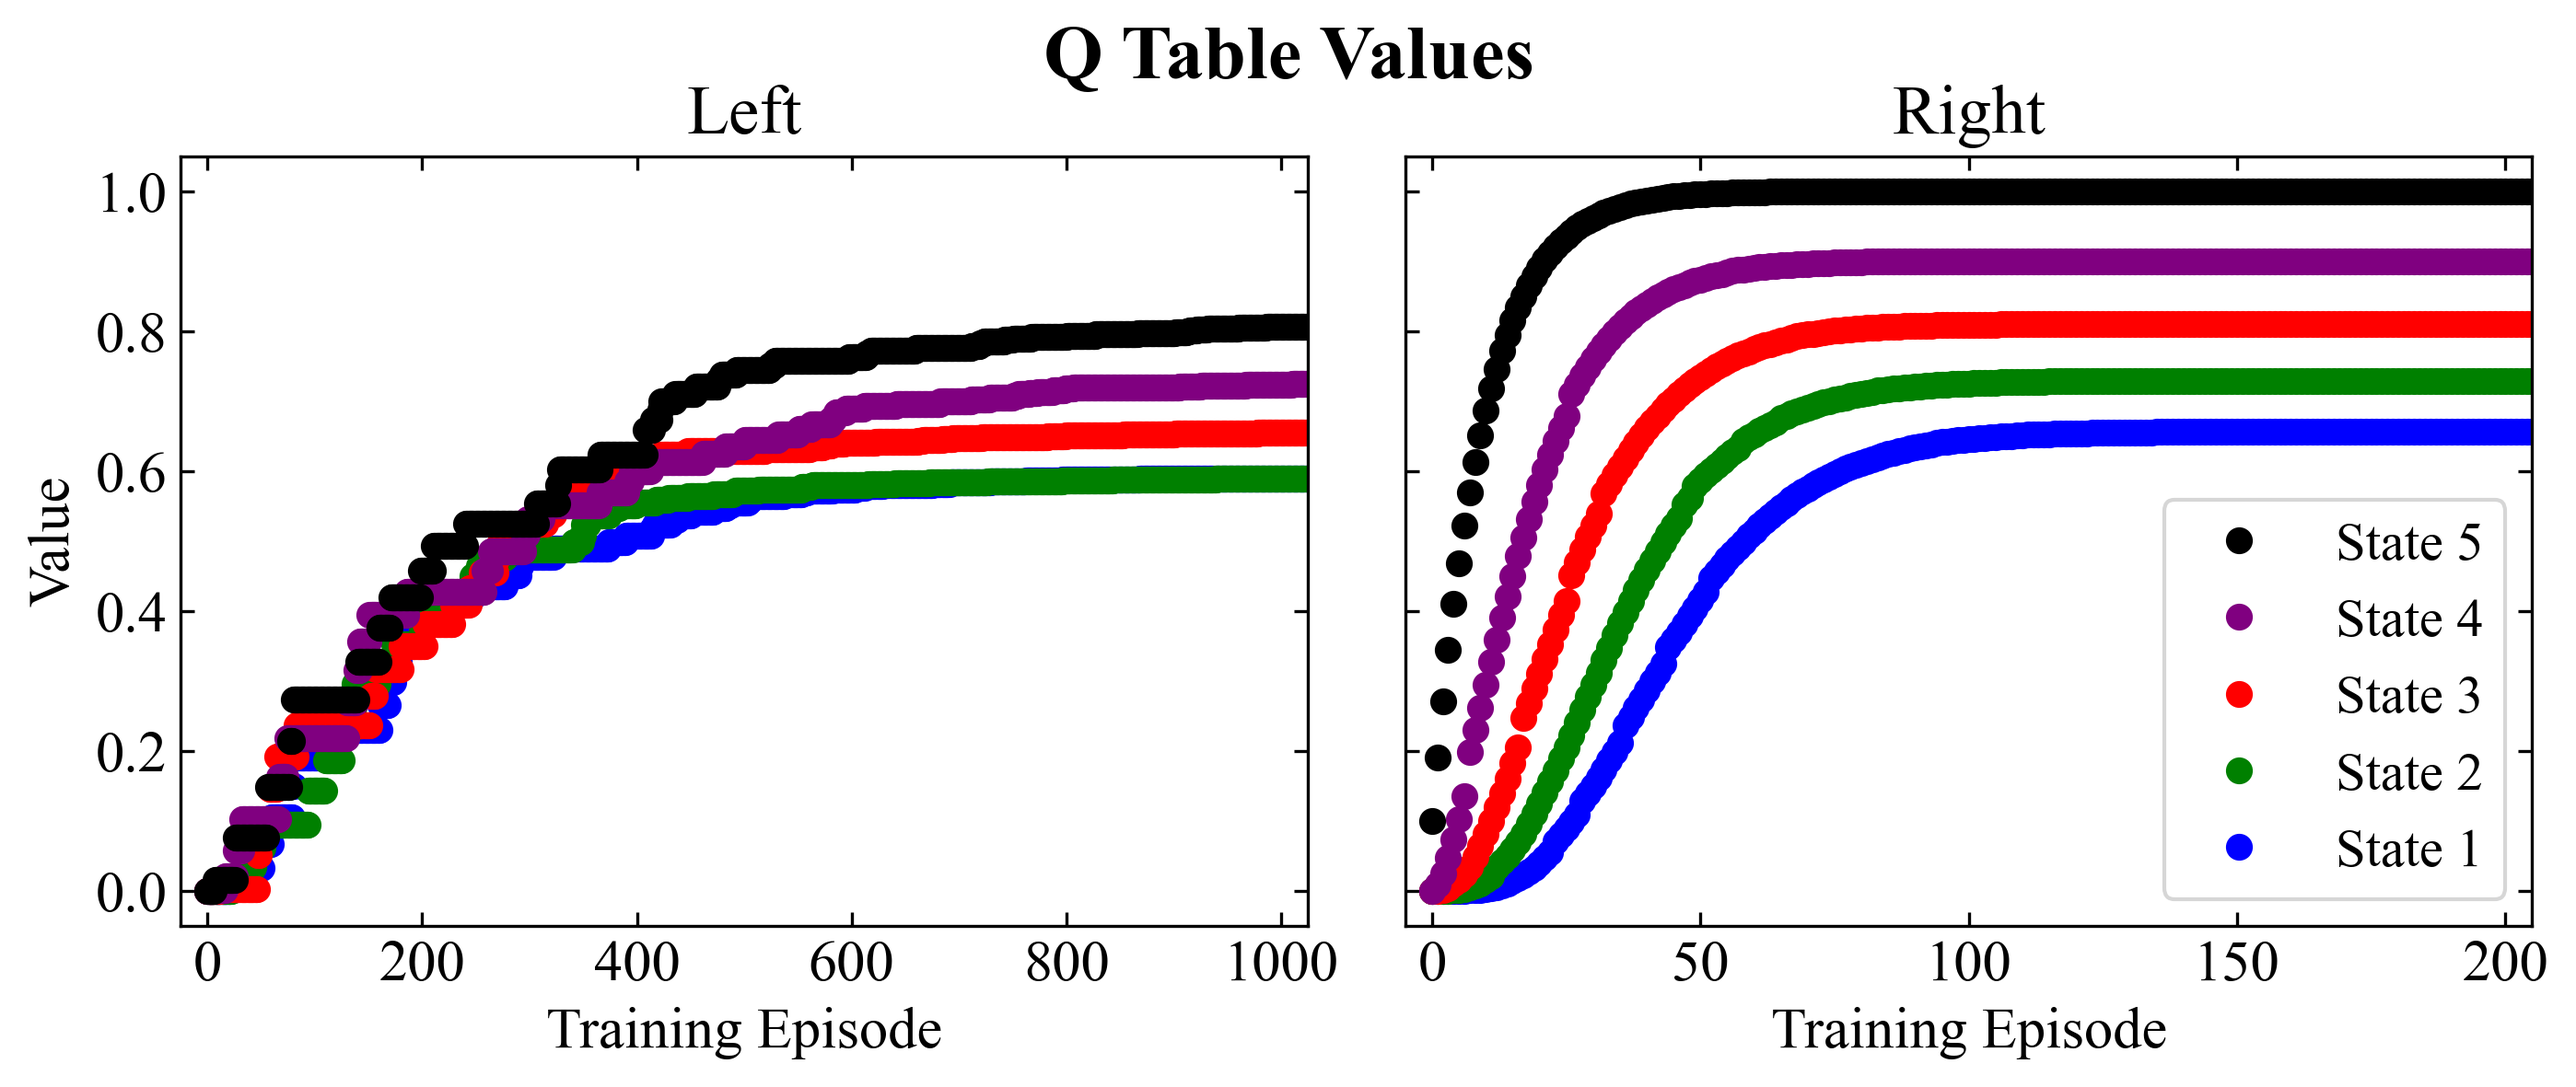
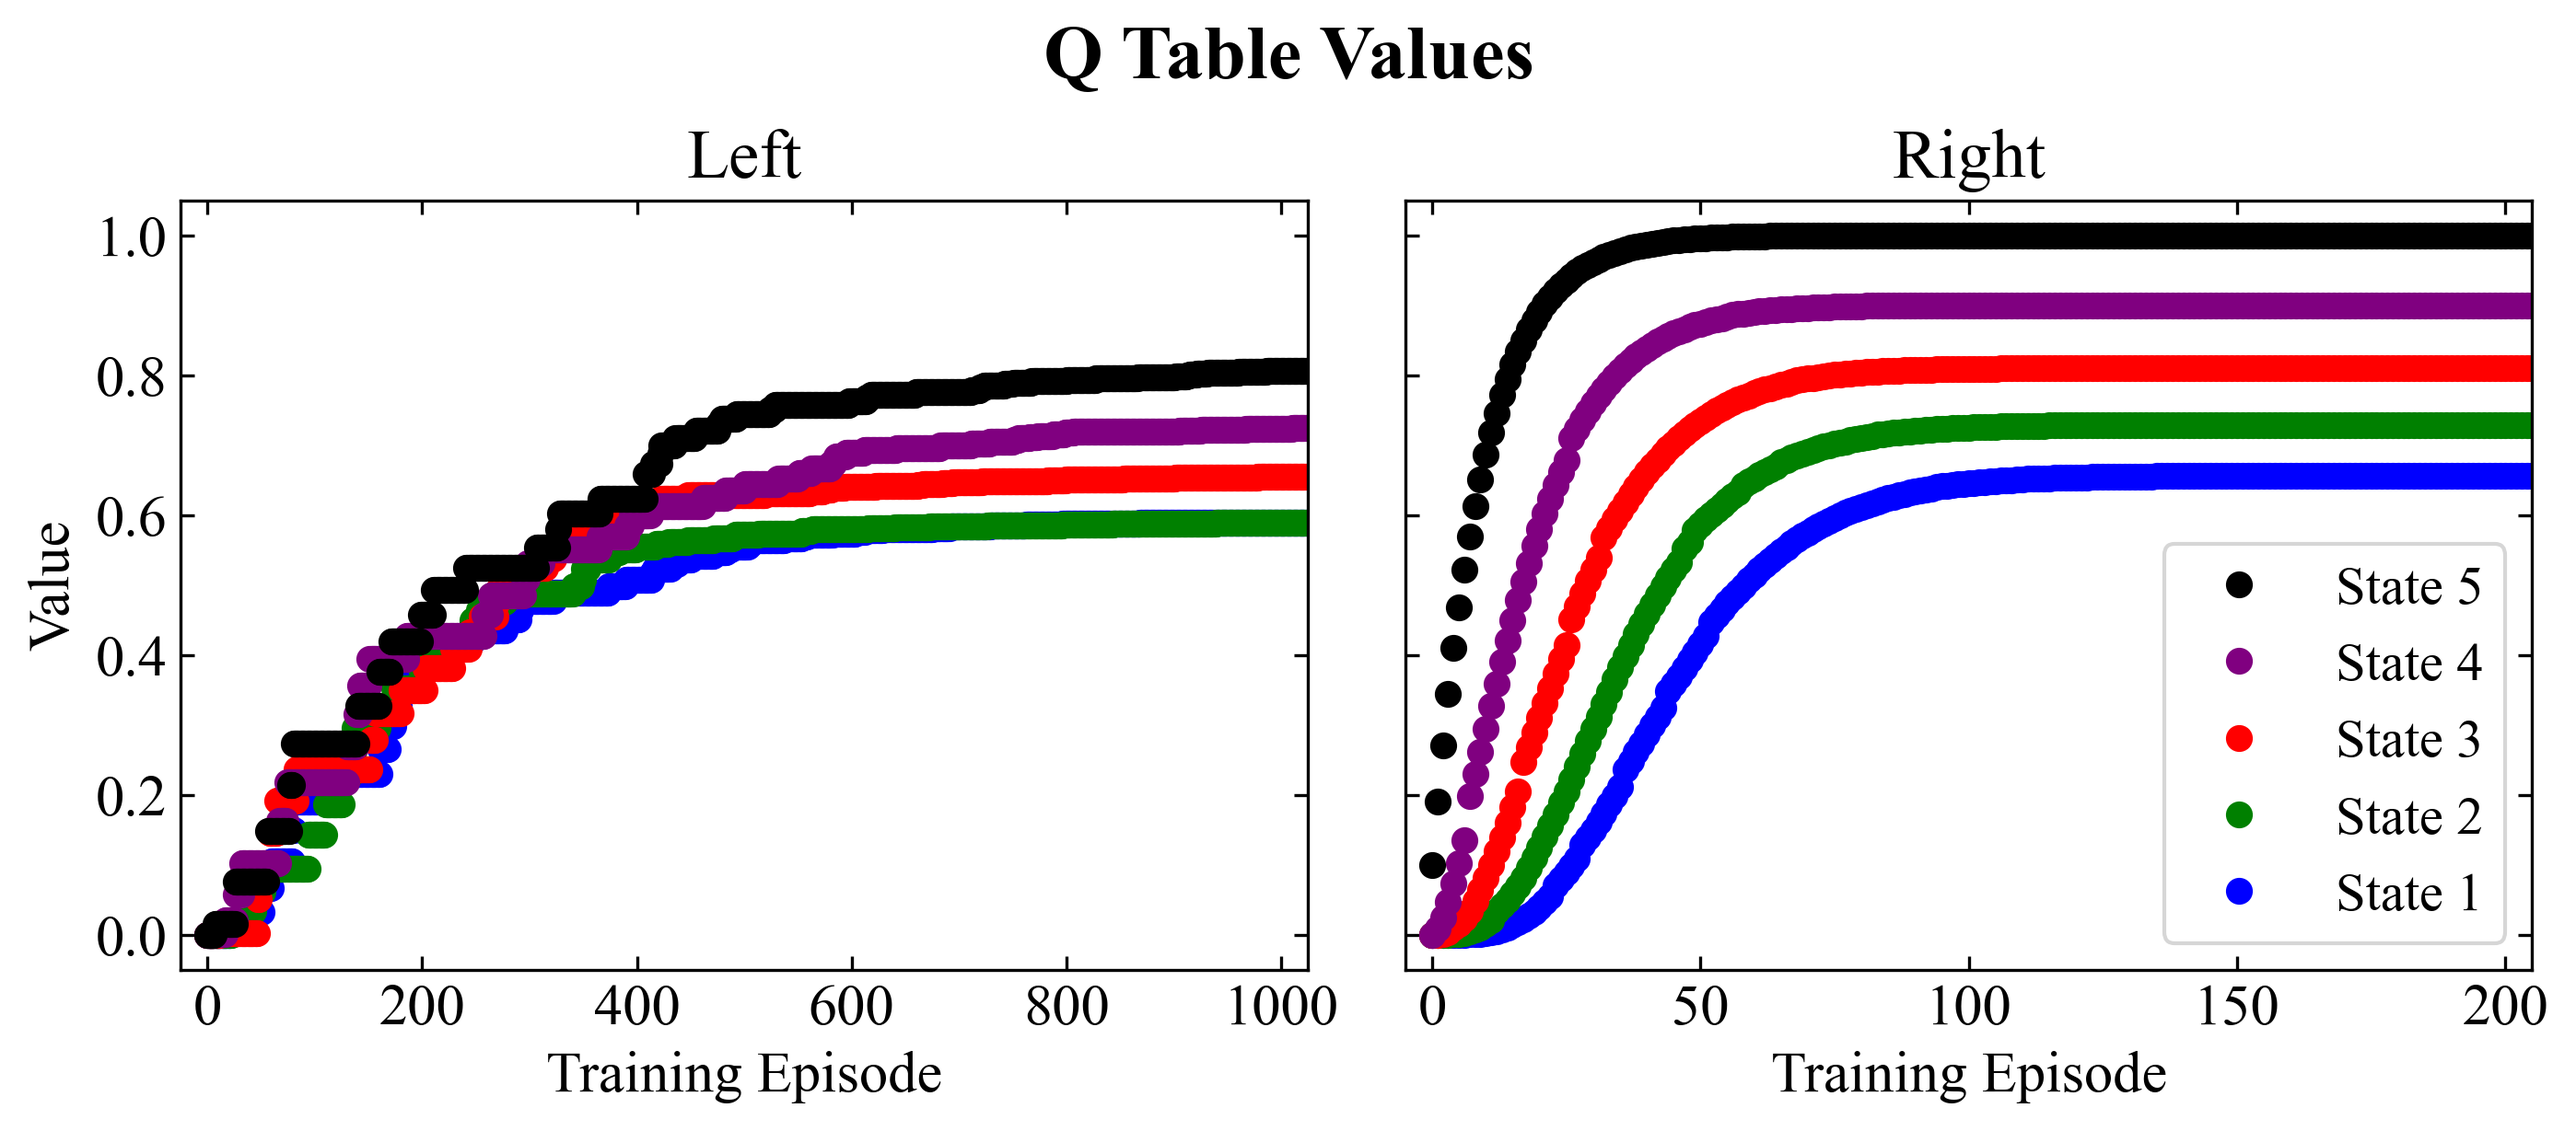
Tried random starting state S = random.choice(0-4)

diff --git a/TreasureHunt/treasure_on_right.py b/TreasureHunt/treasure_on_right.py
@@ -1,9 +1,9 @@
 """
-A simple example for Reinforcement Learning using table lookup Q-learning method.
+A simple example for Reinforcement Learning using the Q-learning method.
 An agent "o" is on the left of a 1 dimensional world, the treasure is on the rightmost location.
 Run this program and to see how the agent will improve its strategy of finding the treasure.
 
-View more on my tutorial page: https://morvanzhou.github.io/tutorials/
+View more on the tutorial page: https://morvanzhou.github.io/tutorials/
 """
 
 import numpy as np
@@ -296,3 +296,74 @@ ax[4].legend([handles[idx] for idx in order],[labels[idx] for idx in order], fon
 fig.tight_layout()
 
 fig.savefig('TreasureHunt/DoubleQTable_Left_Right.png', format='png', dpi=300, bbox_inches = "tight")
+
+# In[5]:
+'''
+    Inspired from a YouTube video: https://www.youtube.com/watch?v=SX08NT55YhA (~10:50), we investigate how the q-table evolves if instead of always starting the agent at the left-most state (S = 0), we start the agent at a random state, not including the right-most state (S = random.choice([0, 1, 2, 3, 4])).
+
+    The intuition was that starting the agent at random states was a good way to increase the exploration aspect of exploration vs exploitation. In the YouTube video, introducing the agent into random game states seemed to be a method to reduce overfitting and increase a more general approach to learning.
+
+    Because this particular toy game requires the agent to pass through every possible game state in its search for the treasure, there is (or seems to be) no benefit (and perhaps even a hinderance) to using random starting states. The envidence being the underdeveloped Q-values, relative to those produced when the starting state is always S = 0.
+'''
+
+MAX_EPISODES = 1100
+
+q_table = build_q_table(N_STATES, ACTIONS)
+states = [0, 1, 2, 3, 4] # can't start at the furthest right state
+
+left_qtable, right_qtable = [np.zeros((MAX_EPISODES, N_STATES)), np.zeros((MAX_EPISODES, N_STATES))]
+
+for episode in range(MAX_EPISODES):
+    step_counter = 0
+    S = random.choice(states)
+    is_terminated = False
+    update_env(S, episode, step_counter)
+    while not is_terminated:
+
+        A = choose_action(S, q_table)
+        S_, R = get_env_feedback(S, A)  # take action & get next state and reward
+        q_predict = q_table.loc[S, A]
+        if S_ != 'terminal':
+            q_target = R + GAMMA * q_table.iloc[S_, :].max()   # next state is not terminal
+        else:
+            q_target = R     # next state is terminal
+            is_terminated = True    # terminate this episode
+
+        q_table.loc[S, A] += ALPHA * (q_target - q_predict)  # update
+        S = S_  # move to next state
+
+        update_env(S, episode, step_counter+1)
+        step_counter += 1
+
+    left_qtable[episode, :] = q_table['left'].values
+    right_qtable[episode, :] = q_table['right'].values
+
+# In[6]:
+ax, fig = axes(fig_number=1, rows=1, columns=2, row_height=4, column_width=6*4/5)
+
+colors = ['b', 'g', 'r', 'purple', 'k']
+
+for state in range(5):
+    ax[1].plot(left_qtable[:,state], 'o', color=colors[state])
+    ax[2].plot(right_qtable[:,state], 'o', color=colors[state], label = 'State {}'.format(state + 1))
+
+ax[1].set_ylim(ax[2].get_ylim())
+ax[2].set_xlim(-5, 205)
+ax[1].set_xlim(-25, 1025)
+
+fig.text(x=0.5, y=0.99, s='Q Table Values', ha = 'center', fontsize=20, fontweight='bold')
+ax[1].set_title('Left')
+ax[2].set_title('Right')
+
+ax[1].set_ylabel('Value')
+ax[1].set_xlabel('Training Episode')
+ax[2].set_xlabel('Training Episode')
+
+handles, labels = ax[2].get_legend_handles_labels()
+order = [4,3,2,1,0]
+ax[2].legend([handles[idx] for idx in order],[labels[idx] for idx in order], fontsize=14)
+ax[2].set_yticklabels([])
+
+fig.tight_layout()
+
+# fig.savefig('TreasureHunt/QTable_Left_Right.png', format='png', dpi=300, bbox_inches = "tight")
